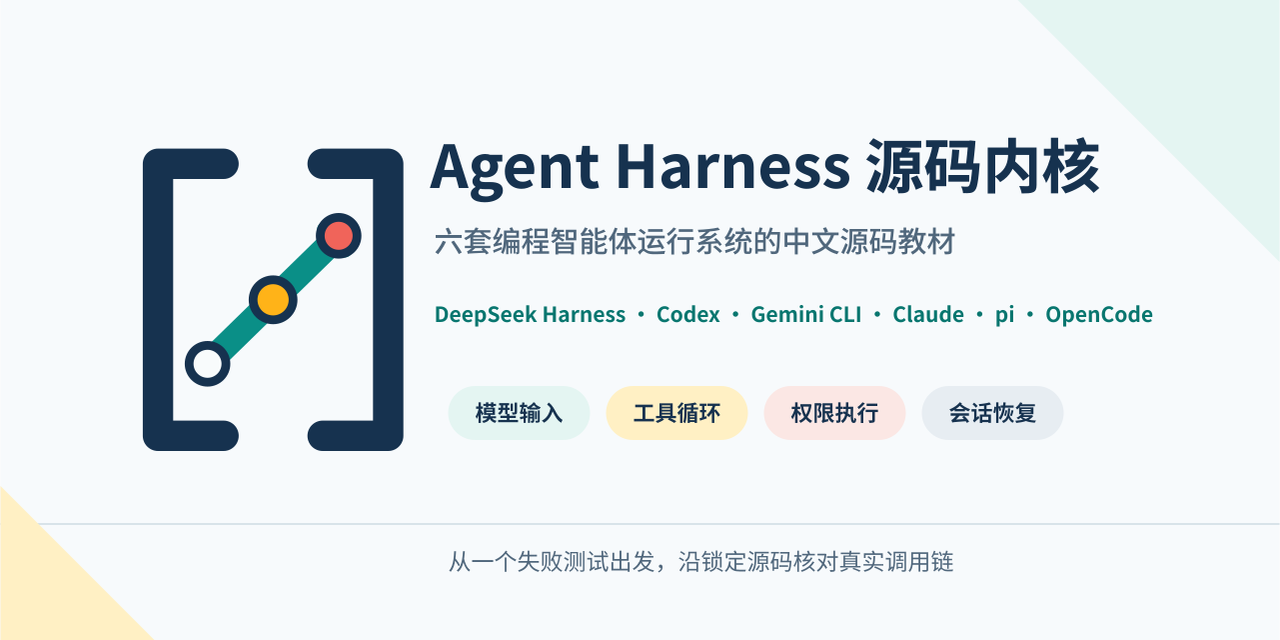
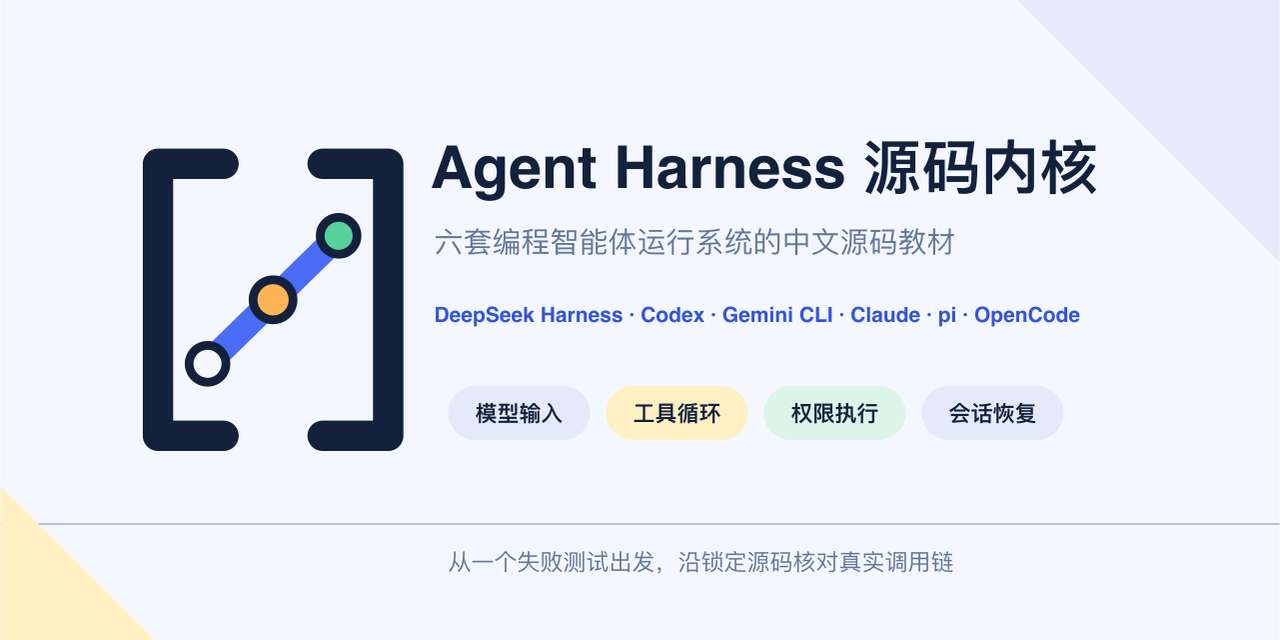
样式: 配色统一到姊妹仓库，不再各用各的品牌色
上一轮只对齐了样式系统，配色留了各自的品牌色，结果站点主色仍是青绿，
和姊妹仓库放在一起还是两个网站。本轮按要求统一。

- extra.css 现与 eval 逐字节完全相同
- mkdocs 配色 teal/amber 改为 indigo/cyan
- 四个品牌 SVG 整体换色到同一族：#0A8F87 → #4A6CF7、
  #16324F → #13213D，节点强调色映射到 eval 的琥珀与绿，
  灰阶对应到 #90A4C8 / #B7C3D9。只换色相，构图与语义不动
- 社交预览 PNG 按新配色重渲，仍是 1280×640

diff --git a/docs/stylesheets/extra.css b/docs/stylesheets/extra.css
@@ -1,8 +1,8 @@
-:root { --md-primary-fg-color: #0a8f87; --md-accent-fg-color: #c77800; }
+:root { --md-primary-fg-color: #354fb3; --md-accent-fg-color: #1597a8; }
 body { font-family: "Microsoft YaHei", "Noto Sans CJK SC", "Noto Sans SC", system-ui, sans-serif; }
-.md-header, .md-tabs { background: #16324f; }
-.md-typeset h1 { color: #16324f; font-weight: 750; }
-[data-md-color-scheme="slate"] .md-typeset h1 { color: #ecf5f7; }
+.md-header, .md-tabs { background: #13213d; }
+.md-typeset h1 { color: #13213d; font-weight: 750; }
+[data-md-color-scheme="slate"] .md-typeset h1 { color: #f4f7ff; }
 .md-typeset table:not([class]) th { background: color-mix(in srgb, var(--md-primary-fg-color) 12%, transparent); }
 .md-typeset img[src$=".svg"] { display: block; max-height: 34rem; margin: 1.5rem auto; }
 .md-typeset code { border-radius: 0.3rem; }
